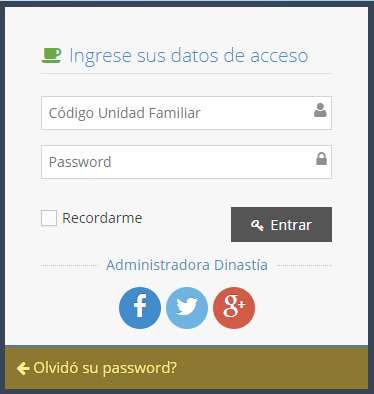
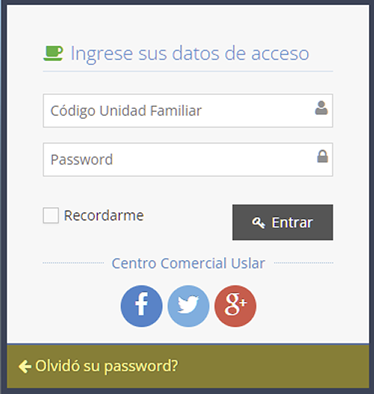
FIX ajuste plantilla correo recuperación contraseña

diff --git a/enlinea/plantillas/clave-servicio.html b/enlinea/plantillas/clave-servicio.html
@@ -33,7 +33,7 @@ Estimado propietario, lo invitamos a disfrutar nuestro nuevo servicio
 <a 
     target="_blank" 
     style="text-decoration:none;color:#C02942" 
-    href="https://administradoradinastia.com.ve/app">
+    href="https://app.centrocomercialuslar.com">
     Condominio On-line</a>.
 </div>
 </td>
@@ -50,13 +50,13 @@ Estimado propietario, lo invitamos a disfrutar nuestro nuevo servicio
 de mejorar la comunicaci&oacute;n y transparencia. Mant&eacute;ngase informado sobre su cuenta de condominio 
 est&eacute; donde est&eacute;.</p>
 <p><strong>Es obligatorio reportar sus pagos a trav&eacute;s del servicio Condominio On-line</strong>, 
-usted recibir&aacute; su recibos de condominio v&iacute;a correo electr&oacute;nico, adem&aacute;s los tendr&aacute; siempre disponibles en nuestra p&aacute;gina web.</p>
+usted recibir&aacute; sus recibos de condominio v&iacute;a correo electr&oacute;nico, adem&aacute;s los tendr&aacute; siempre disponibles en nuestra p&aacute;gina web.</p>
 <p>Estas son sus credenciales de acceso:</p>
 <ul>
     <li>C&oacute;digo Unidad Familiar: <span style="font-size: 18px; color: #C02942">[apto]</span></li>
     <li>Password: <span style="font-size: 18px; color: #C02942">[clave]</span></li>
 </ul>
-<p>Para cualquier consulta, escr&iacute;banos a: <br><strong>AtencionAlCliente@AdministradoraDinastia.com.ve</strong></p>
+<!--p>Para cualquier consulta, escr&iacute;banos a: <br><strong>AtencionAlCliente@AdministradoraDinastia.com.ve</strong></p-->
 </div>
 </td>
 </tr>
@@ -73,8 +73,8 @@ usted recibir&aacute; su recibos de condominio v&iacute;a correo electr&oacute;n
 <td width="498" style="text-align: center;">
 <a target="_blank" class="nonplayable" 
    style="text-decoration:none;display:block" 
-   href="https://administradoradinastia.com.ve/app/">
-<img src="https://administradoradinastia.com.ve/app/images/email_login.png" style="margin:0 auto;">
+   href="https://app.centrocomercialuslar.com">
+<img src="https://app.centrocomercialuslar.com/images/email_login.png" style="margin:0 auto;">
 </a>
 </td>
 </tr>
@@ -82,7 +82,7 @@ usted recibir&aacute; su recibos de condominio v&iacute;a correo electr&oacute;n
 </tr>
 <tr>
 <td width="498">
-<a target="_blank" style="text-decoration:none" href="https://administradoradinastia.com.ve/app/">
+<a target="_blank" style="text-decoration:none" href="https://app.centrocomercialuslar.com">
 <div dir="ltr" style="font-family:arial,Arial,sans-serif;font-size:15px;color:#333333;line-height:20px;font-weight:bold">
     &iquest;Qu&eacute; puede hacer a trav&eacute;s del servicio Condominio On-line?
 </div>
@@ -90,7 +90,7 @@ usted recibir&aacute; su recibos de condominio v&iacute;a correo electr&oacute;n
 <div style="font-family:arial,Arial,sans-serif;font-size:13px;color:#999999;line-height:20px">
 <a target="_blank" dir="ltr" 
    style="font-family:arial,Arial,sans-serif;font-size:12px;color:#D0180E;line-height:20px;" 
-   href="https://administradoradinastia.com.ve/app/">
+   href="https://app.centrocomercialuslar.com">
 Entre a Condominio On-line aqu&iacute;</a>
 </div>
 </td>
@@ -108,8 +108,8 @@ Entre a Condominio On-line aqu&iacute;</a>
 <li>Reportar sus pagos de condominio.</li>
 <li>Ver, descargar o imprimir sus recibos de condominio.</li>
 <li>Recibir mensajes de la administradora.</li>
-<li>Consultar quienes son los miembros de la jutna de condominio.</li>
-<li>Consutlar el hist&oacute;rico sus operaciones a trav&eacute;s de este servicio.</li>
+<li>Consultar quienes son los miembros de la junta de condominio.</li>
+<li>Consultar el hist&oacute;rico sus operaciones a trav&eacute;s de este servicio.</li>
 <li>Recibir confirmaci&oacute;n de operaciones en su correo electr&oacute;nico.</li>
 <li>Recibir en su correo electr&oacute;nico copia digital de la cancelaci&oacute;n de su condominio.</li>
 </ul>
@@ -140,7 +140,7 @@ Entre a Condominio On-line aqu&iacute;</a>
 <td width="40"></td>
 <td width="498">
 <div style="font-family:arial,Arial,sans-serif;font-size:11px;color:#999999;line-height:14px">
-    <a target="_blank" style="text-decoration:none;color:#D0180E" href="https://administradoradinastia.com.ve/app/">Conodominio On-line</a> •
+    <a target="_blank" style="text-decoration:none;color:#D0180E" href="https://app.centrocomercialuslar.com">Condominio On-line</a> &cir;
 Sitio Web Gestionado por<a target="_blank" style="text-decoration:none;color:#1c62b9" href="https://www.administracion-condominio.com.ve"> Valoriza<sup>2</sup></a> 
 </div>
 </td>
@@ -159,9 +159,9 @@ Sitio Web Gestionado por<a target="_blank" style="text-decoration:none;color:#1c
 <td width="40"></td>
 <td width="498">
 <div style="font-family:arial,Arial,sans-serif;font-size:11px;color:#999999;line-height:13px">
-Este e-mail ha sido enviado autom&aacute;ticamente desde www.administradoradinastia.com.ve<br>
+Este e-mail ha sido enviado autom&aacute;ticamente desde app.centrocomercialuslar.com<br>
 El sistema de consultas de su cuenta de condominio desde Internet.<br>
-Disponible las 24 horas del d&iacute;a los 365 d&iacute;as del año.
+Disponible las 24 horas del d&iacute;a los 365 d&iacute;as del a&ntilde;o.
 </div>
 </td>
 <td width="40"></td>
